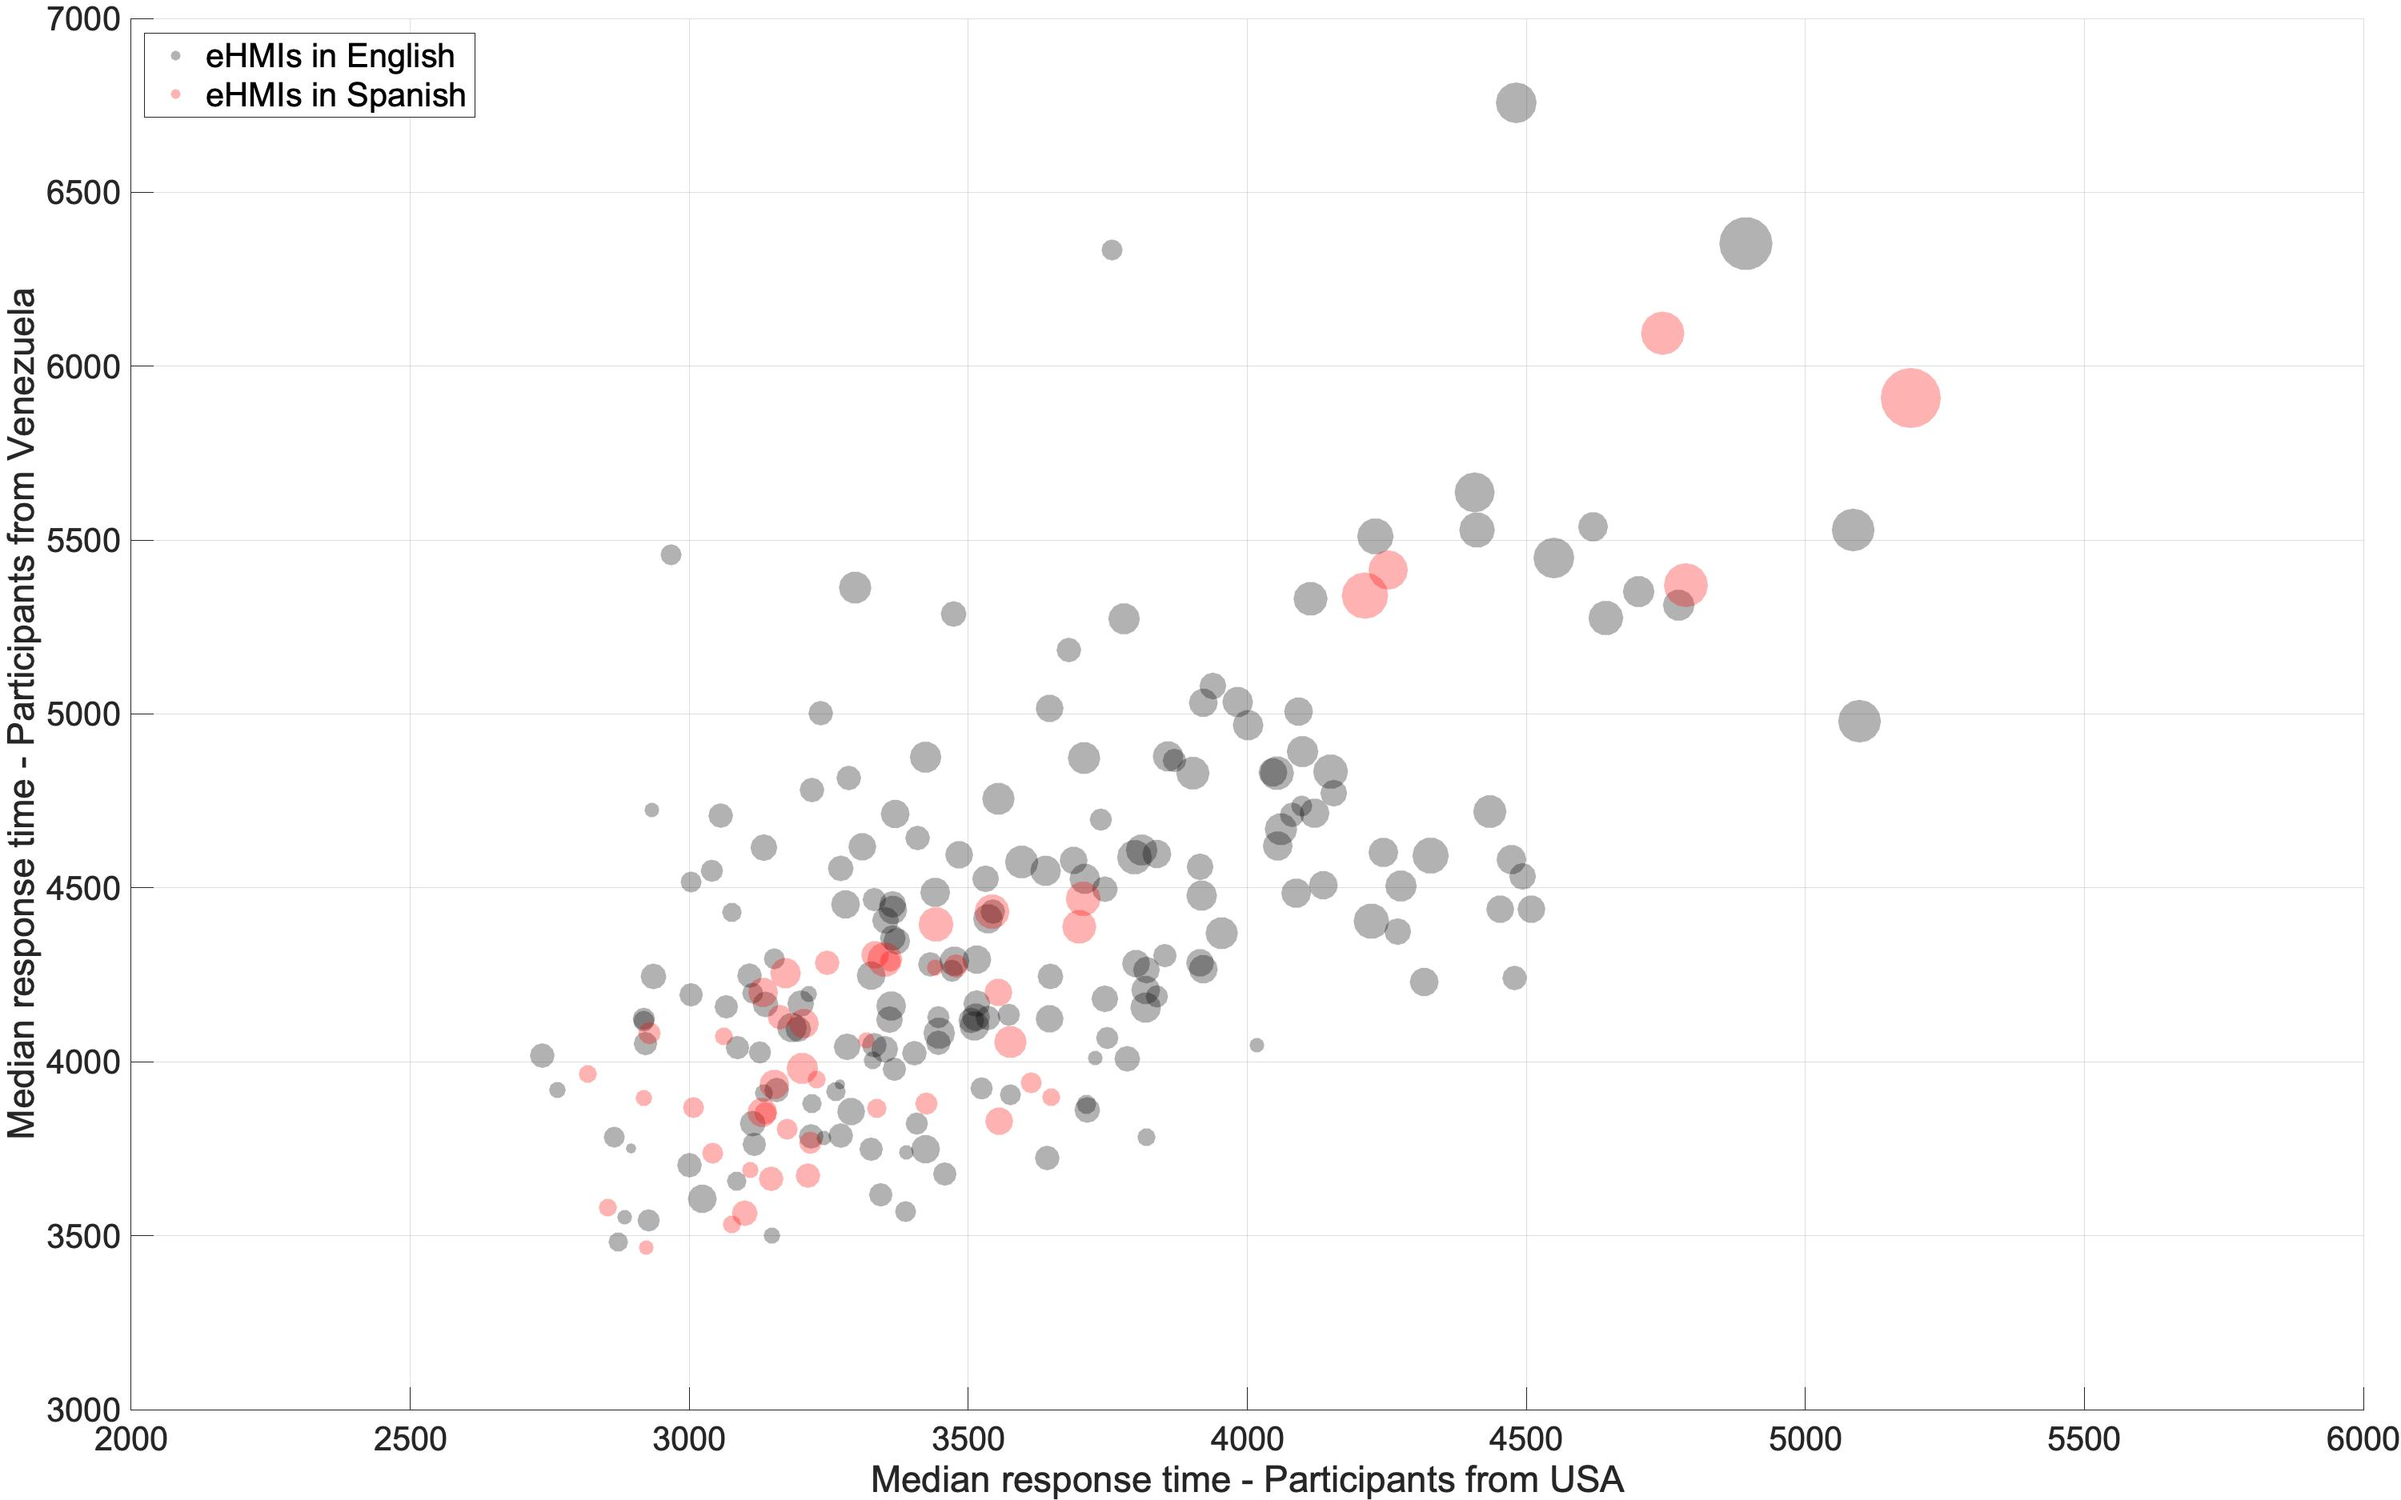
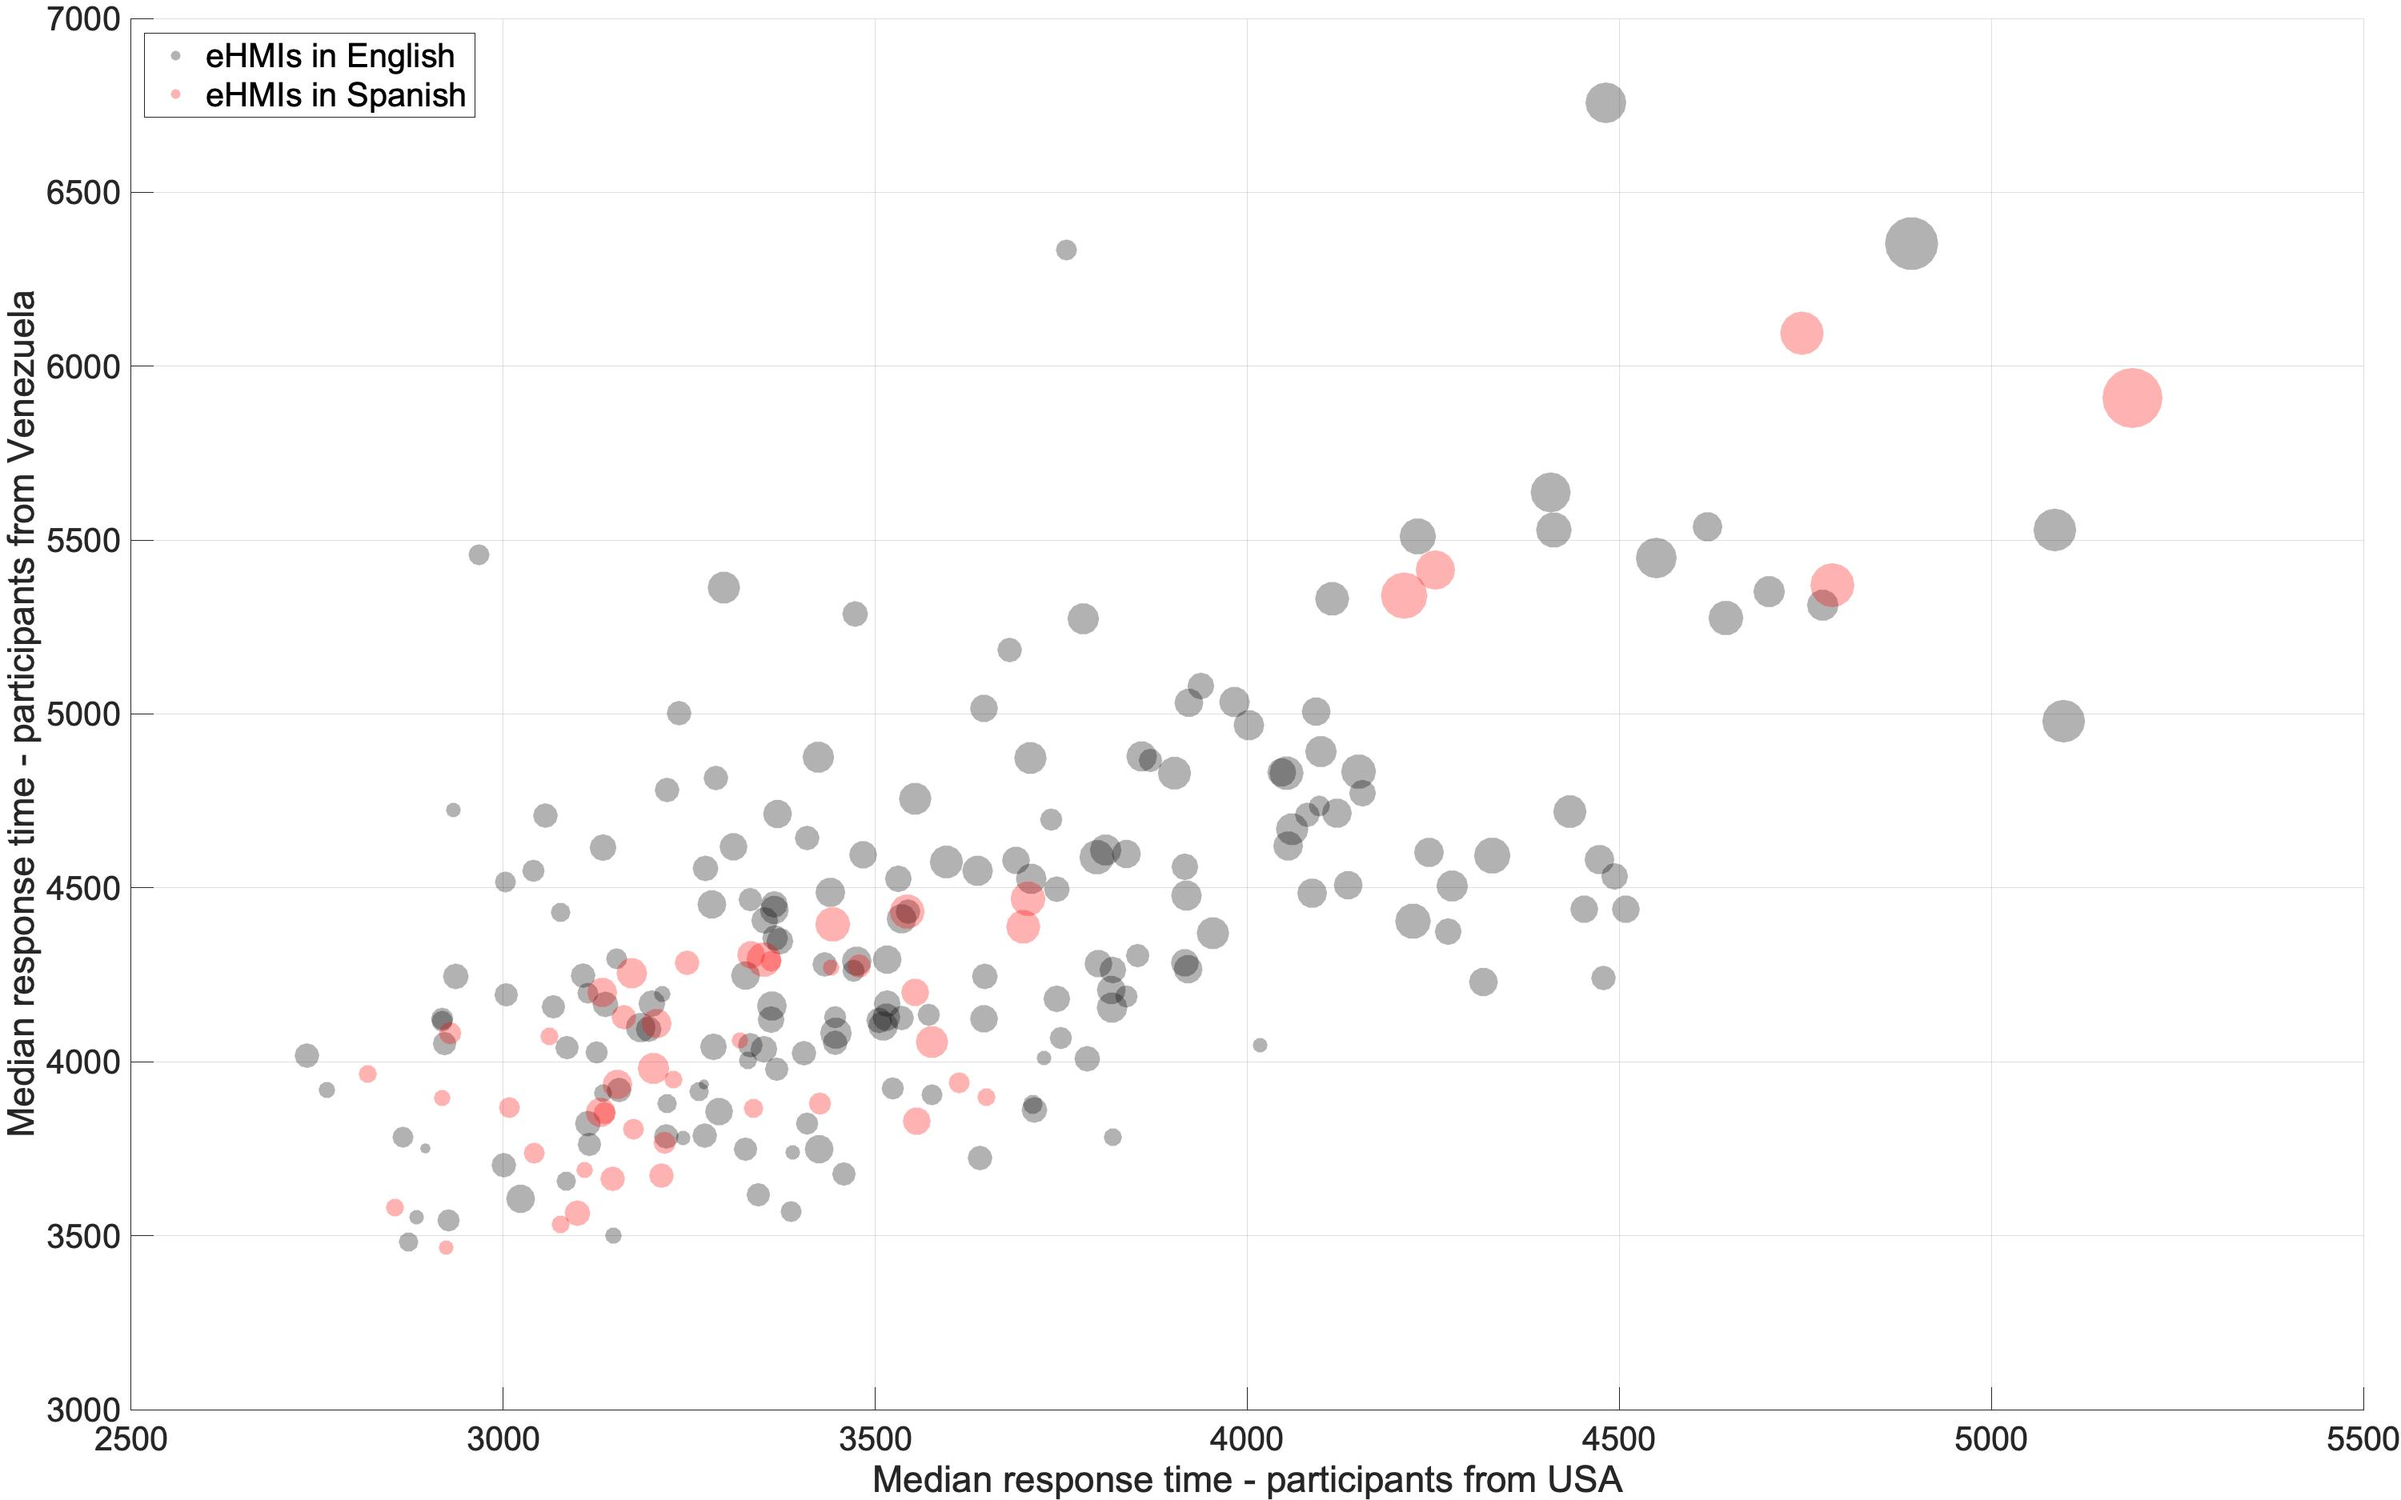
Improved axis limits

diff --git a/textehmi/analysis/analysis.m b/textehmi/analysis/analysis.m
@@ -334,13 +334,13 @@ legend(h, {'eHMIs in English' 'eHMIs in Spanish'}, ...
        'autoupdate', 'off', ...
        'location', 'northwest')
 plot([0 100], [0 100], 'b--')
-xlabel('Median response time - Participants from USA');
-ylabel('Median response time - Participants from Venezuela');
+xlabel('Median response time - participants from USA');
+ylabel('Median response time - participants from Venezuela');
 h=findobj('FontName', 'Helvetica');
 set(h, 'FontSize', 20, 'Fontname','Arial')
 set(gca, ...
     'LooseInset', [0.01 0.01 0.01 0.01], ...
-    'xlim', [2000 6000], ...
+    'xlim', [2500 5500], ...
     'ylim', [3000 7000])
 % maximise and export as eps and jpg (for readme)
 if config.save_figures
@@ -360,14 +360,14 @@ for i=1:227 % English eHMIs
                           'markeredgecolor', 'none');
     scatter_obj.MarkerFaceAlpha = 0.3;
 end
-plot([0 100],[0 100],'b--')
+plot([0 100], [0 100],'b--')
 xlabel('Number of characters');
 ylabel('Median response time');
 h=findobj('FontName', 'Helvetica');
 set(h, 'FontSize', 20, 'Fontname', 'Arial')
 set(gca, ...
     'LooseInset', [0.01 0.01 0.01 0.01], ...
-    'ylim', [2000 10000])
+    'ylim', [3000 6500])
 %axis equal
 % maximise and export as eps and jpg (for readme)
 if config.save_figures
